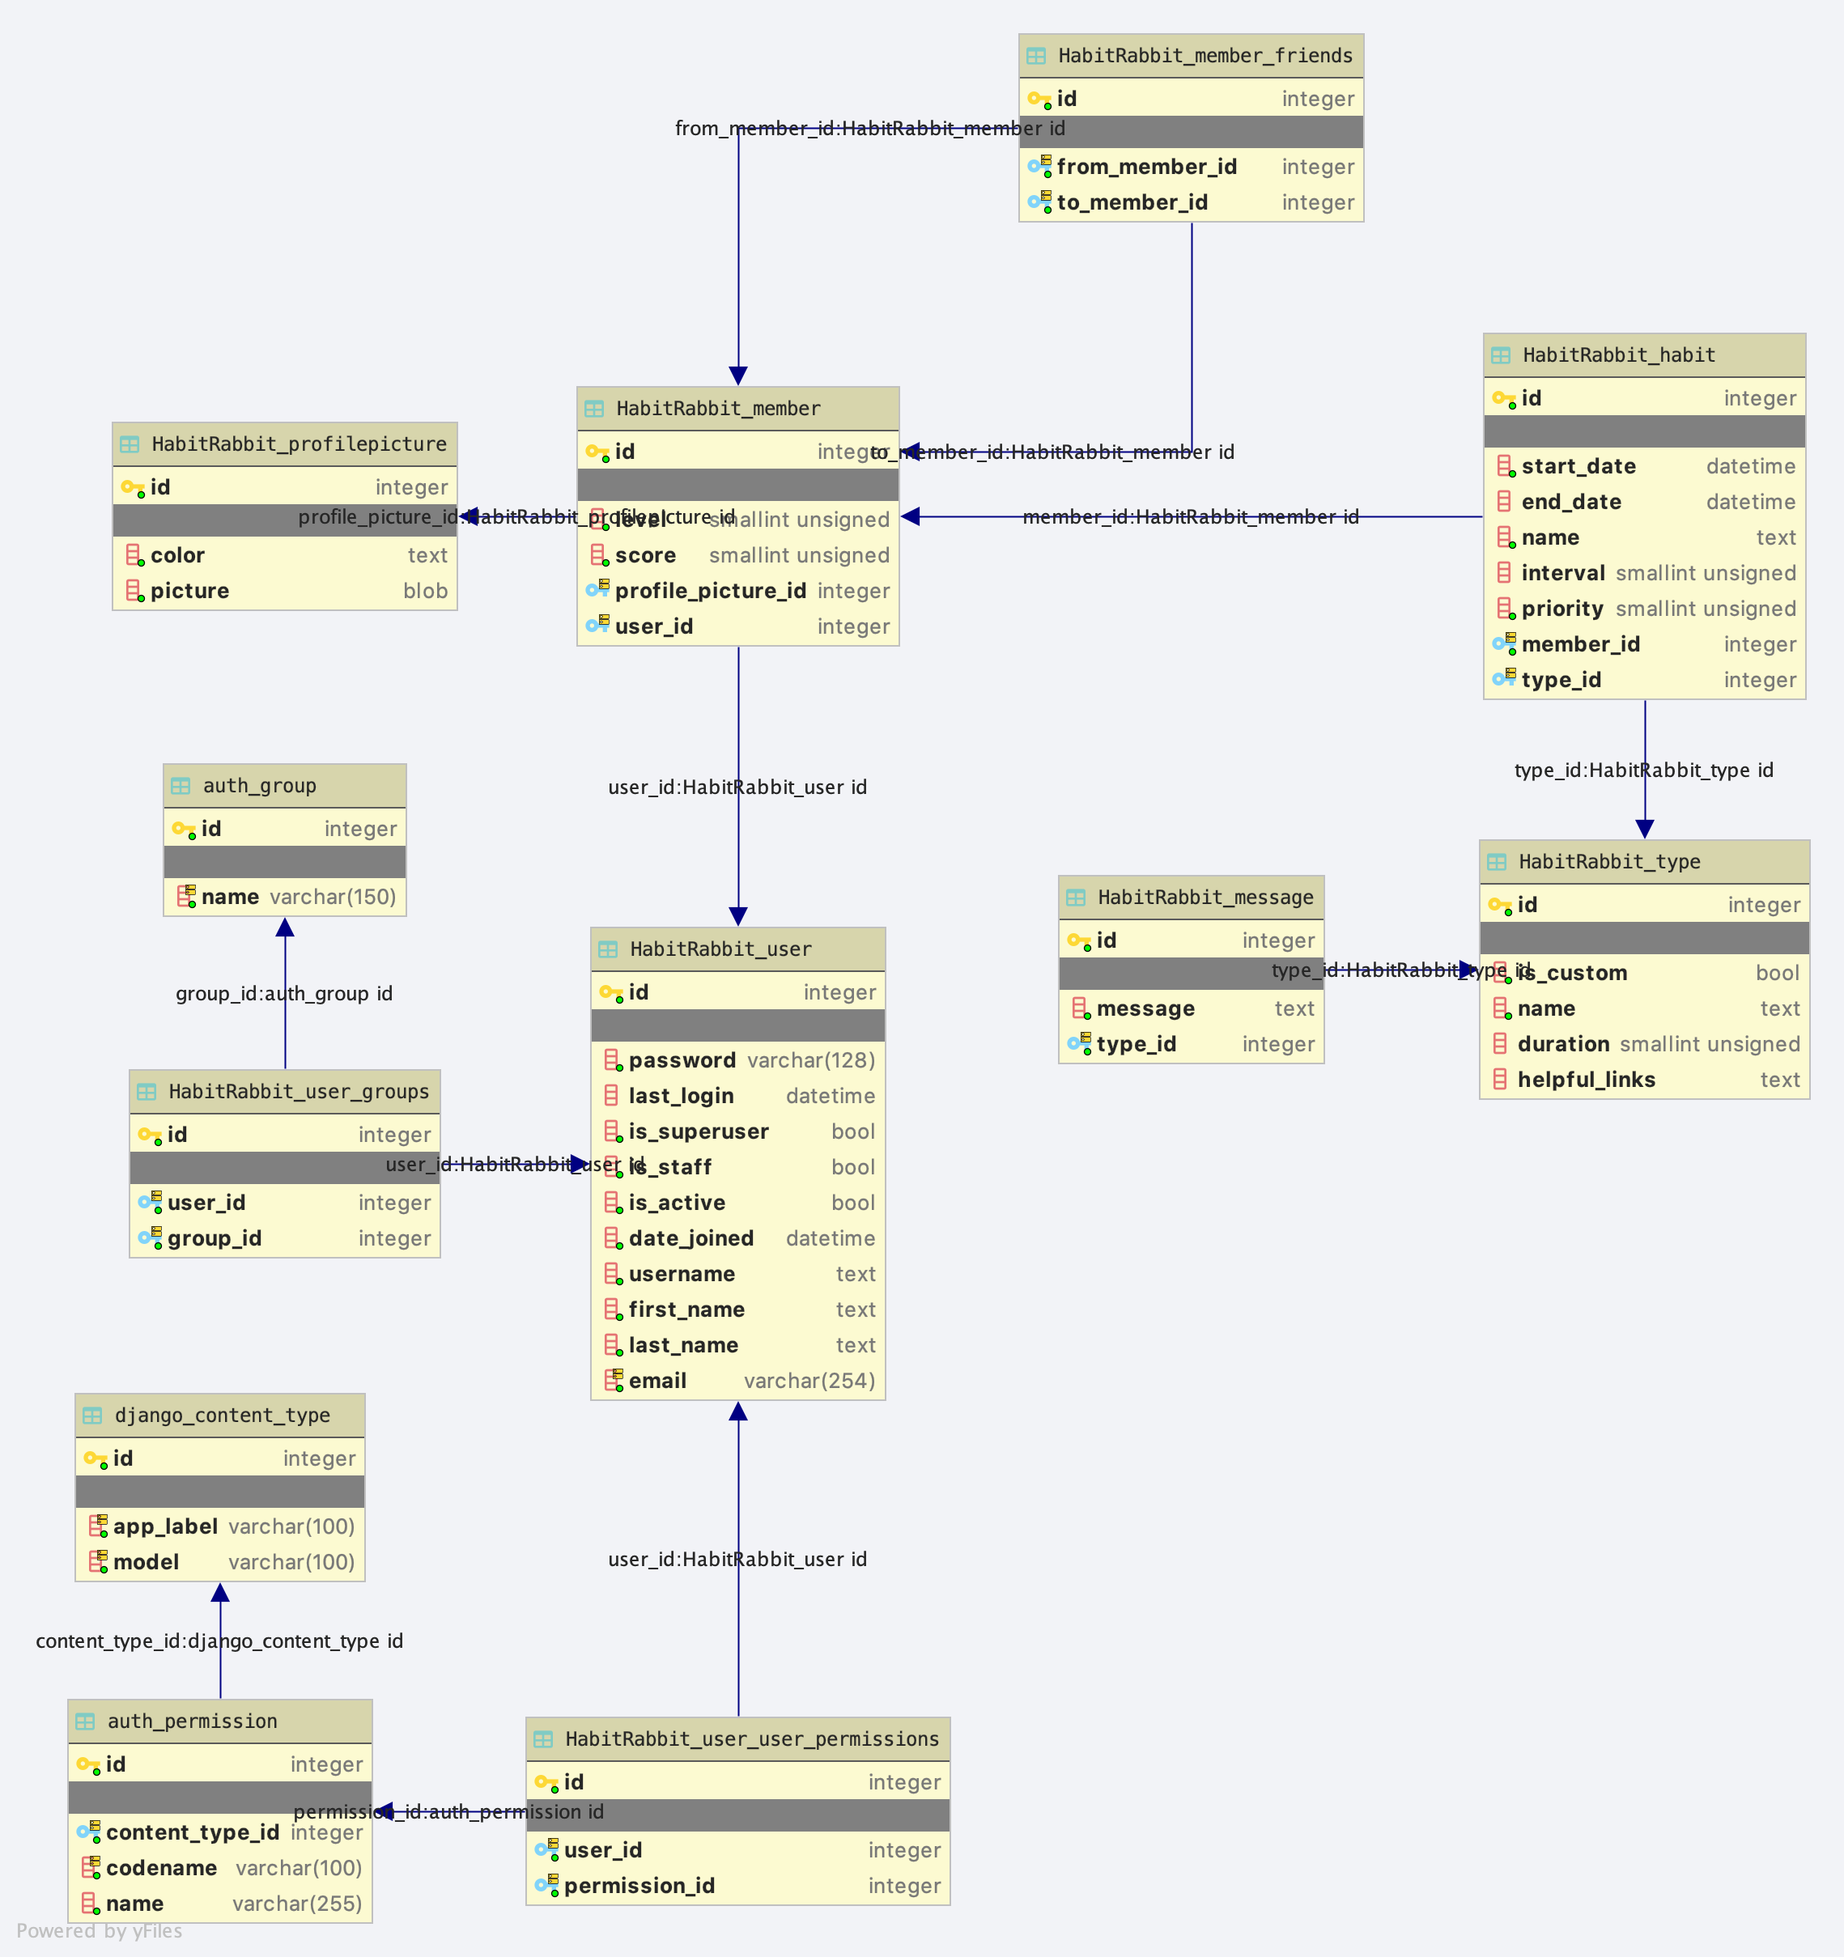
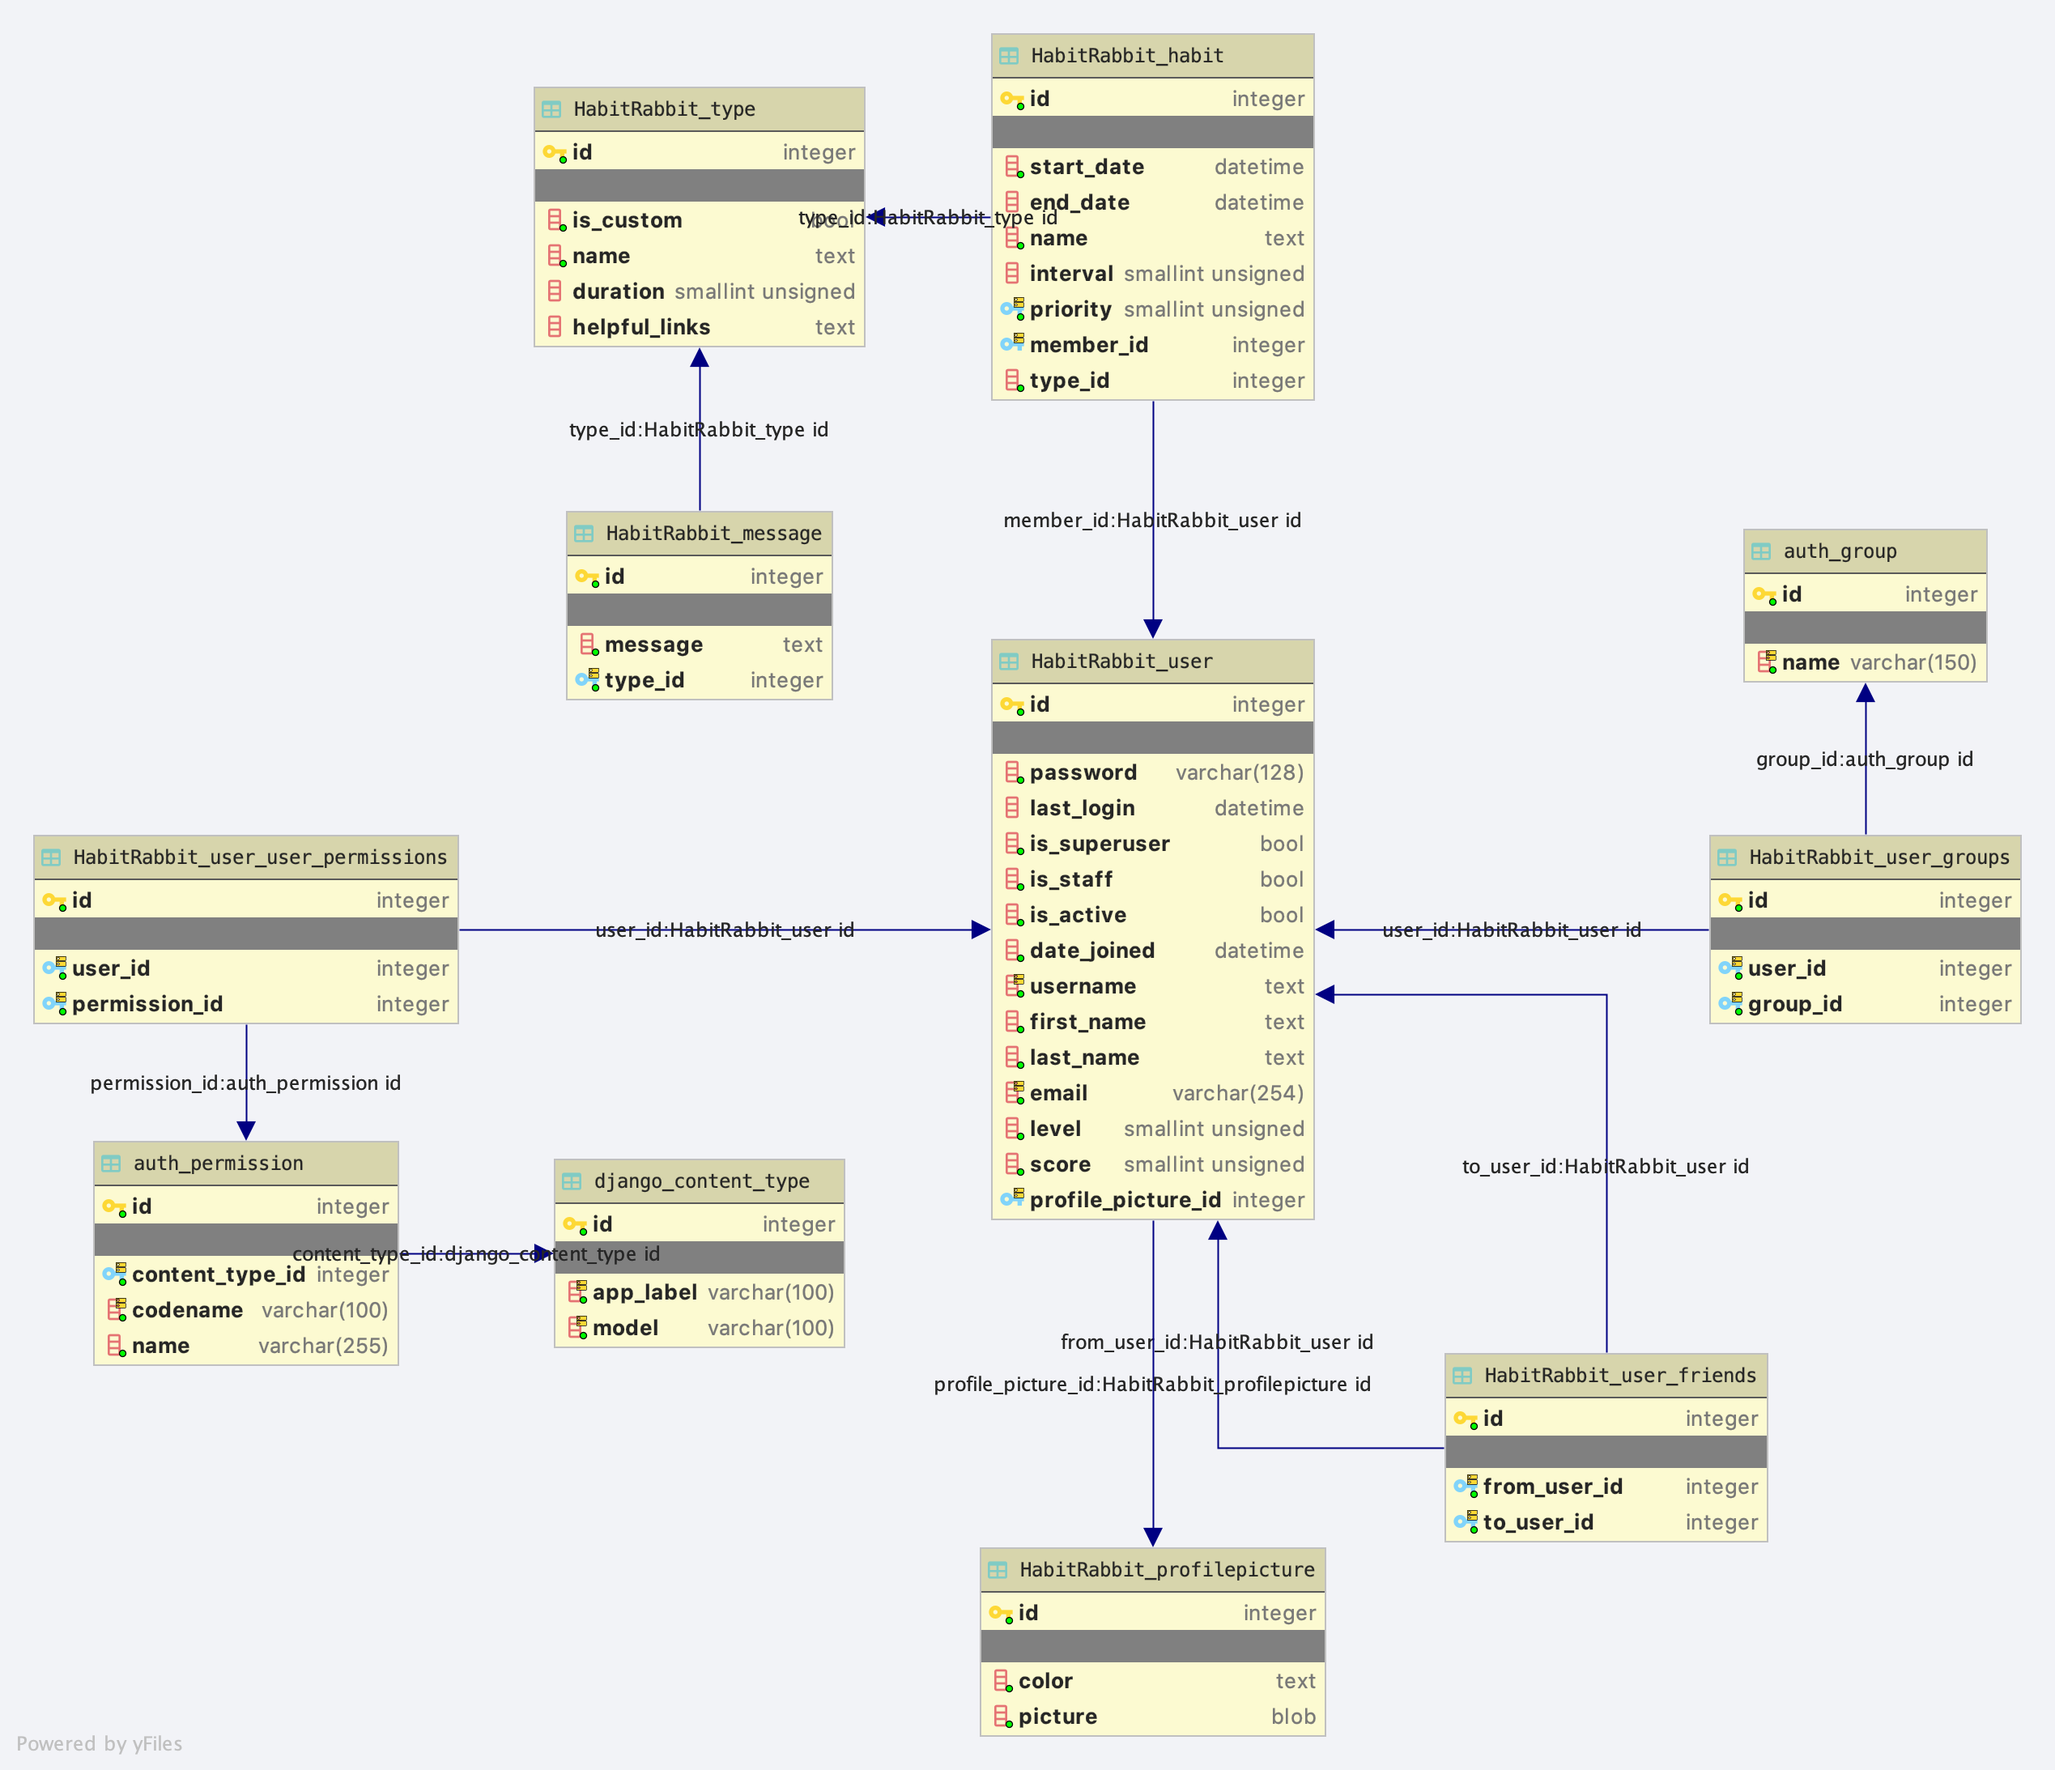
remove member and integrate into user
modify ERD accordingly

diff --git a/backend/HabitRabbit/views.py b/backend/HabitRabbit/views.py
@@ -4,20 +4,12 @@ from rest_framework.parsers import JSONParser
 from rest_framework.permissions import AllowAny
 from rest_framework.response import Response
 
-from HabitRabbit.models import Member, Habit, Type, Message, ProfilePicture, User
-from HabitRabbit.serializers import MemberSerializer, HabitSerializer, TypeSerializer, MessageSerializer, \
+from HabitRabbit.models import Habit, Type, Message, ProfilePicture, User
+from HabitRabbit.serializers import HabitSerializer, TypeSerializer, MessageSerializer, \
     ProfilePictureSerializer, UserSerializer, EmailSerializer, UserNumberSerializer
 
 
 # GETs for all
-@swagger_auto_schema(method='GET', responses={200: MemberSerializer(many=True)})
-@api_view(['GET'])
-def member_list(request):
-    members = Member.objects.all()
-    serializer = MemberSerializer(members, many=True)
-    return Response(serializer.data)
-
-
 @swagger_auto_schema(method='GET', responses={200: UserSerializer(many=True)})
 @api_view(['GET'])
 def user_list(request):
@@ -59,18 +51,6 @@ def profilepicture_list(request):
 
 
 # GETs for specific
-@swagger_auto_schema(method='GET', responses={200: MemberSerializer()})
-@api_view(['GET'])
-def member_form_get(request, pk):
-    try:
-        member = Member.objects.get(pk=pk)
-    except Member.DoesNotExist:
-        return Response({'error': 'Member does not exist.'}, status=404)
-
-    serializer = MemberSerializer(member)
-    return Response(serializer.data)
-
-
 @swagger_auto_schema(method='GET', responses={200: UserSerializer()})
 @api_view(['GET'])
 def user_form_get(request, pk):
@@ -129,17 +109,6 @@ def profilepicture_form_get(request, pk):
 
 
 # POSTs
-@swagger_auto_schema(method='POST', request_body=MemberSerializer, responses={200: MemberSerializer()})
-@api_view(['POST'])
-def member_form_create(request):
-    data = JSONParser().parse(request)
-    serializer = MemberSerializer(data=data)
-    if serializer.is_valid():
-        serializer.save()
-        return Response(serializer.data, status=201)
-    return Response(serializer.errors, status=400)
-
-
 @swagger_auto_schema(method='POST', request_body=UserSerializer, responses={200: UserSerializer()})
 @api_view(['POST'])
 @permission_classes([AllowAny])
@@ -197,22 +166,6 @@ def profilepicture_create(request):
 
 
 # PATCHs
-@swagger_auto_schema(method='PATCH', request_body=MemberSerializer, responses={200: MemberSerializer()})
-@api_view(['PATCH'])
-def member_form_update(request, pk):
-    try:
-        member = Member.objects.get(pk=pk)
-    except Member.DoesNotExist:
-        return Response({'error': 'Member does not exist.'}, status=404)
-
-    data = JSONParser().parse(request)
-    serializer = MemberSerializer(member, data=data)
-    if serializer.is_valid():
-        serializer.save()
-        return Response(serializer.data)
-    return Response(serializer.errors, status=400)
-
-
 @swagger_auto_schema(method='PATCH', request_body=UserSerializer, responses={200: UserSerializer()})
 @api_view(['PATCH'])
 def user_form_update(request, pk):
@@ -295,16 +248,6 @@ def profilepicture_form_update(request, pk):
 
 # DELETEs
 @api_view(['DELETE'])
-def member_delete(request, pk):
-    try:
-        member = Member.objects.get(pk=pk)
-    except Member.DoesNotExist:
-        return Response({'error': 'Member does not exist.'}, status=404)
-    member.delete()
-    return Response(status=204)
-
-
-@api_view(['DELETE'])
 def user_delete(request, pk):
     try:
         user = User.objects.get(pk=pk)
@@ -362,8 +305,7 @@ def profilepicture_delete(request, pk):
     return Response(status=204)
 
 
-
-#Purpose built views
+# Purpose built views
 @swagger_auto_schema(method='GET', responses={200: EmailSerializer()})
 @api_view(['GET'])
 @permission_classes([AllowAny])
@@ -375,6 +317,7 @@ def get_email_from_username(request, username):
 
     serializer = EmailSerializer(user)
     return Response(serializer.data)
+
 
 @swagger_auto_schema(method='GET', responses={200: UserNumberSerializer()})
 @api_view(['GET'])

diff --git a/backend/HabitRabbit/migrations/0001_initial.py b/backend/HabitRabbit/migrations/0001_initial.py
@@ -1,4 +1,4 @@
-# Generated by Django 3.0.2 on 2020-01-08 17:11
+# Generated by Django 3.0.2 on 2020-01-09 08:07
 
 from django.conf import settings
 import django.contrib.auth.models
@@ -16,14 +16,6 @@ class Migration(migrations.Migration):
     ]
 
     operations = [
-        migrations.CreateModel(
-            name='Member',
-            fields=[
-                ('id', models.AutoField(auto_created=True, primary_key=True, serialize=False, verbose_name='ID')),
-                ('level', models.PositiveSmallIntegerField(default=1)),
-                ('score', models.PositiveSmallIntegerField(default=0)),
-            ],
-        ),
         migrations.CreateModel(
             name='ProfilePicture',
             fields=[

diff --git a/backend/HabitRabbit/models.py b/backend/HabitRabbit/models.py
@@ -20,17 +20,6 @@ class ProfilePicture(models.Model):
         return self.color
 
 
-class Member(models.Model):
-    level = models.PositiveSmallIntegerField(default=1)
-    score = models.PositiveSmallIntegerField(default=0)
-    # friends = models.ManyToManyField('self', null=True)
-
-    # profile_picture = models.ForeignKey(ProfilePicture, on_delete=models.CASCADE, null=True)
-
-    def __str__(self):
-        return 'Score: %s, Level: %s' % (self.score, self.level)
-
-
 class User(AbstractUser):
     username = models.TextField(unique=True)
     first_name = models.TextField()

diff --git a/backend/backend/urls.py b/backend/backend/urls.py
@@ -22,11 +22,6 @@ from HabitRabbit import views
 
 urlpatterns = [
     path('admin/', admin.site.urls),
-    path('member/list', views.member_list),
-    path('member/create', views.member_form_create),
-    path('member/<int:pk>/get', views.member_form_get),
-    path('member/<int:pk>/update', views.member_form_update),
-    path('member/<int:pk>/delete', views.member_delete),
     path('habit/list', views.habit_list),
     path('habit/create', views.habit_form_create),
     path('habit/<int:pk>/get', views.habit_form_get),

diff --git a/backend/HabitRabbit/serializers.py b/backend/HabitRabbit/serializers.py
@@ -1,13 +1,7 @@
 from rest_framework import serializers
 from rest_framework.validators import UniqueValidator
 
-from HabitRabbit.models import Member, Habit, Type, ProfilePicture, Message, User
-
-
-class MemberSerializer(serializers.ModelSerializer):
-    class Meta:
-        model = Member
-        fields = '__all__'
+from HabitRabbit.models import Habit, Type, ProfilePicture, Message, User
 
 
 class HabitSerializer(serializers.ModelSerializer):
